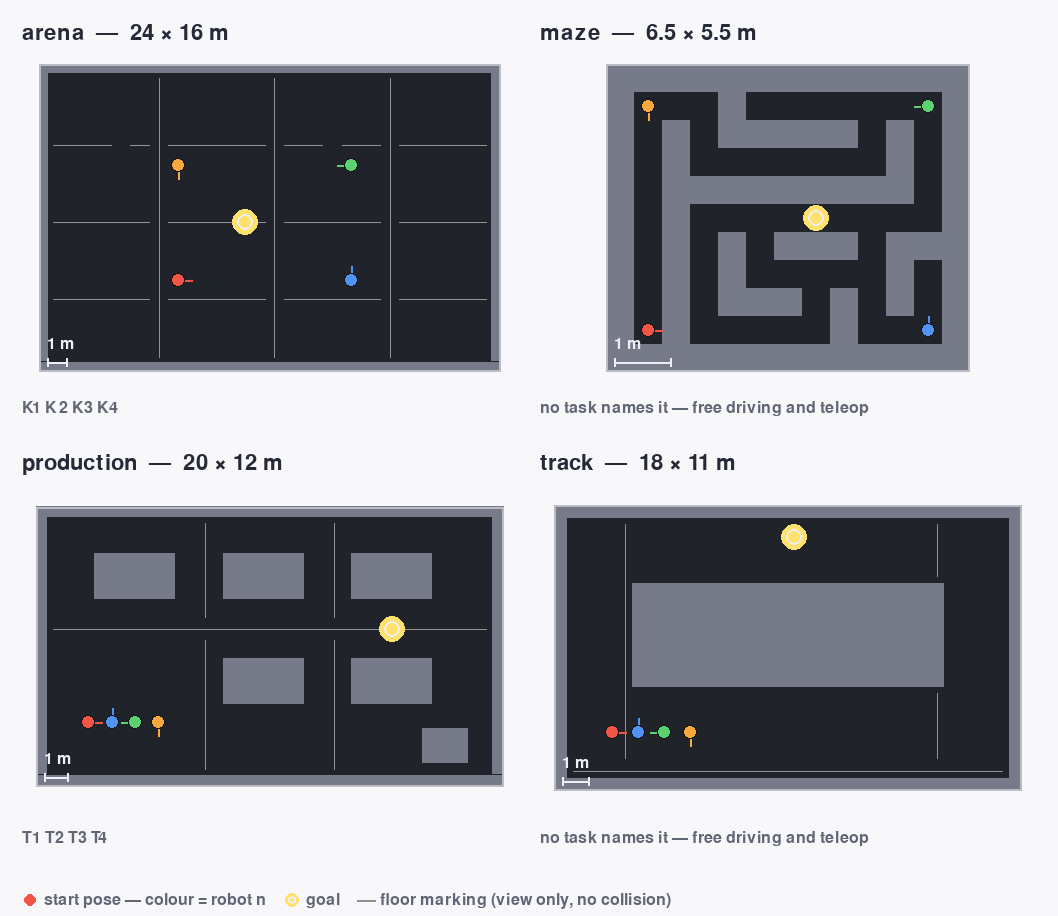
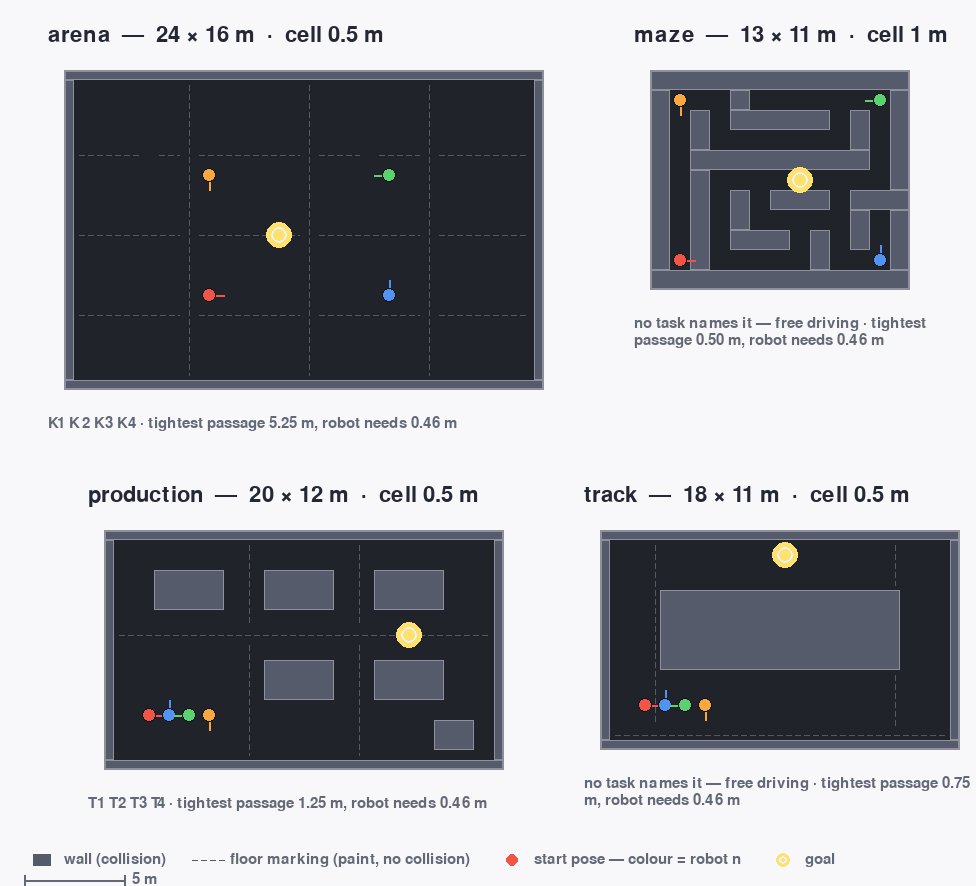
-- new stuff!

diff --git a/tools/worldpic.py b/tools/worldpic.py
@@ -1,19 +1,26 @@
 #!/usr/bin/env python3
 """One picture of every arena — for the README and for the tutor's screen.
 
-Draws what the GUI shows: floor, merged wall blocks, floor markings, the goal bullseye and
-every spawn with its heading. The line under each panel says which tasks name that world, read
-from `config/tasks.json` — the picture cannot quietly disagree with the task file.
+One metre has the same thickness everywhere in this figure: the panels are the worlds at a
+common scale, so `maze` (13 × 11 m, 1 m cells) and `arena` (24 × 16 m, 0.5 m cells) are
+comparable and a wall is as thick as it really is. Walls are solid blocks with a lit edge;
+floor markings (`-` and `|` in the grid) are drawn as dashed paint — they are decoration
+without collision and must not read as walls.
+
+Under each panel: which tasks name this world (`config/tasks.json`) and how wide the tightest
+passage on the widest start->goal path is (`tools/worldcheck.py`) — the number that says
+whether a robot fits through.
 
 Headless (SDL dummy), deterministic, stdlib + pygame only (CONTRACT section 1).
 
     python3 tools/worldpic.py                       # docs/img/worlds.png
-    python3 tools/worldpic.py --out /tmp/w.png --zoom 1.4
+    python3 tools/worldpic.py --out /tmp/w.png --massstab 28
 """
 import argparse
 import json
 import math
 import os
+import re
 import sys
 
 os.environ.setdefault("SDL_VIDEODRIVER", "dummy")       # no window needed to draw a picture
@@ -21,31 +28,31 @@ os.environ.setdefault("SDL_AUDIODRIVER", "dummy")
 os.environ.setdefault("PYGAME_HIDE_SUPPORT_PROMPT", "1")
 import pygame                                           # noqa: E402
 
-sys.path.insert(0, os.path.dirname(os.path.dirname(os.path.abspath(__file__))))
+ROOT = os.path.dirname(os.path.dirname(os.path.abspath(__file__)))
+sys.path.insert(0, ROOT)
+sys.path.insert(0, os.path.join(ROOT, "tools"))
 from mecanum_lab.types import PALETTE, cfg_get, load_config      # noqa: E402
 from mecanum_lab.worlds import load_world, list_worlds           # noqa: E402
+from worldcheck import pruefe                                    # noqa: E402
 
-ROOT = os.path.dirname(os.path.dirname(os.path.abspath(__file__)))
-BG, TITEL, TEXT = (248, 248, 251), (38, 42, 54), (96, 102, 116)
-PANEL, RAHMEN = 496, 336                          # panel box; the world box sits inside
-RAND, TITEL_H, UNTER, SPALTEN = 22, 28, 44, 2     # margins, title strip, caption strip
-LEGENDE = 34                                      # one legend line under the grid
-BODEN, WAND = (.13, .14, .17), (.34, .36, .42)    # same defaults as the pygame window
-ZIEL, HELL = (255, 226, 110), (236, 239, 246)
+MASSSTAB = 20.0                                    # pixels per metre, the same in every panel
+POLSTER, TITEL_H, UNTER, LEGENDE = 16, 30, 54, 46  # panel padding, title and caption strips
+RAND, SPALTEN = 24, 2                              # gaps between panels, columns of the grid
+BG, TITEL, TEXT = (248, 248, 251), (36, 40, 52), (98, 104, 118)
+BODEN, WAND = (.13, .14, .17), (.42, .45, .52)     # floor and wall, close to the GUI's gui_style
+ZIEL, HELL = (255, 226, 110), (238, 241, 247)
+FREI = 0.25                                        # same clearance the world checker defaults to
+ENG = re.compile(r"narrowest point ([\d.]+) m free \(needs ([\d.]+) m\)")
 
 
 def farben(cfg: dict) -> tuple:
-    """Floor, wall and border colours — gui_style, but walls a bit brighter.
-
-    The arena walls are 5 cm thin; at figure scale they would vanish in the floor, so the
-    picture lightens them. The window itself keeps the original values (render.py).
-    """
+    """Floor, wall, edge and paint colours — the same gui_style values the window reads."""
     stil = cfg_get(cfg or {}, "gui_style") or {}
     boden = tuple(int(255 * v) for v in stil.get("floor", BODEN))
     wand = tuple(int(255 * v) for v in stil.get("wall", WAND))
-    wand = tuple(int(0.78 * c + 0.22 * h) for c, h in zip(wand, HELL))
-    rand = tuple(min(255, (c + 255) // 2) for c in wand)         # a lit edge, as in the GUI
-    return boden, wand, rand
+    kant = tuple((2 * c + 255) // 3 for c in wand)             # lit edge of a solid body
+    malung = tuple((3 * c + 255) // 4 for c in boden)          # painted line, clearly not wall
+    return boden, kant, wand, malung
 
 
 def aufgaben_pro_welt() -> dict:
@@ -62,9 +69,78 @@ def aufgaben_pro_welt() -> dict:
     return {name: " ".join(kurz) for name, kurz in welten.items()}
 
 
-def _px(box, s, x, y):
-    """World metres -> pixels in the panel: origin bottom left, y growing upwards."""
-    return (box.x + x * s, box.bottom - y * s)
+def durchlass(name: str, cfg: dict) -> str:
+    """'tightest passage 1.25 m, robot needs 0.46 m' — straight from the world checker."""
+    try:
+        meldungen, _ = pruefe(name, cfg, FREI)
+    except Exception as exc:                                   # the picture is still drawn
+        return f"passage width unavailable ({type(exc).__name__})"
+    for zeile in meldungen:
+        treffer = ENG.search(zeile)
+        if treffer:
+            return f"tightest passage {treffer.group(1)} m, robot needs {treffer.group(2)} m"
+    return "no start->goal pair (free driving)"
+
+
+def textzeilen(schrift, text: str, breite: int):
+    """Wrap a caption to the panel width — a clipped sentence helps nobody."""
+    zeilen, aktuelle = [], ""
+    for wort in text.split():
+        kandidat = f"{aktuelle} {wort}".strip()
+        if aktuelle and schrift.size(kandidat)[0] > breite:
+            zeilen.append(aktuelle)
+            aktuelle = wort
+        else:
+            aktuelle = kandidat
+    if aktuelle:
+        zeilen.append(aktuelle)
+    return zeilen
+
+
+def _px(herkunft, s, x, y):
+    """World metres -> pixels: origin bottom left, y grows upwards."""
+    return (herkunft[0] + x * s, herkunft[1] - y * s)
+
+
+def _strich(sc, a, b, farbe, stich=5, luecke=4):
+    """Dashed line — the only honest way to draw paint on the floor."""
+    (x0, y0), (x1, y1) = a, b
+    laenge = math.hypot(x1 - x0, y1 - y0) or 1.0
+    dx, dy = (x1 - x0) / laenge, (y1 - y0) / laenge
+    zurueck, an = 0.0, True
+    while zurueck < laenge:
+        schritt = min(stich if an else luecke, laenge - zurueck)
+        if an:
+            pygame.draw.line(sc, farbe, (x0 + dx * zurueck, y0 + dy * zurueck),
+                             (x0 + dx * (zurueck + schritt), y0 + dy * (zurueck + schritt)), 1)
+        zurueck, an = zurueck + schritt, not an
+
+
+def feld(sc, welt, ecke, s, paare):
+    """Draw one world with its bottom left corner at `ecke` (pixels)."""
+    boden, kant, wand, malung = paare
+    breite, hoehe = int(welt.size[0] * s), int(welt.size[1] * s)
+    rahmen = pygame.Rect(ecke[0], int(ecke[1] - hoehe), breite, hoehe)
+    sc.fill(boden, rahmen)
+    for mauer in welt.walls or []:
+        linke = _px(ecke, s, mauer.x0, mauer.y1)
+        leib = pygame.Rect(linke, (max(2, int((mauer.x1 - mauer.x0) * s)),
+                                   max(2, int((mauer.y1 - mauer.y0) * s))))
+        pygame.draw.rect(sc, wand, leib)
+        pygame.draw.rect(sc, kant, leib, 1)              # reads as a body, not as a stroke
+    for x0, y0, x1, y1 in welt.markings or []:
+        _strich(sc, _px(ecke, s, x0, y0), _px(ecke, s, x1, y1), malung)
+    pygame.draw.rect(sc, kant, rahmen, 2)                # where the world ends
+    if welt.goal:
+        mitte = _px(ecke, s, welt.goal.x, welt.goal.y)
+        for ring, rad in enumerate((13, 8, 3)):
+            pygame.draw.circle(sc, HELL if ring == 1 else ZIEL, mitte, rad, 2 if ring else 0)
+    for nr, start in enumerate(welt.spawns or []):
+        mitte, farbe = _px(ecke, s, start.x, start.y), _palette(nr)
+        pygame.draw.circle(sc, farbe, mitte, 7)
+        pygame.draw.line(sc, farbe, mitte, (mitte[0] + 15 * math.cos(start.theta),
+                                           mitte[1] - 15 * math.sin(start.theta)), 2)
+        pygame.draw.circle(sc, (18, 20, 26), mitte, 7, 1)
 
 
 def _palette(nr: int) -> tuple:
@@ -72,84 +148,68 @@ def _palette(nr: int) -> tuple:
     return tuple(min(255, int(255 * w)) for w in PALETTE[nr % len(PALETTE)][1])
 
 
-def feld(sc, welt, x, y, boden, wand, rand):
-    """Draw one world into the panel box at (x, y); returns scale and the world box."""
-    w, h = welt.size
-    s = min((PANEL - 28) / w, (RAHMEN - 28) / h)
-    box = pygame.Rect(x + (PANEL - w * s) / 2, y + (RAHMEN - h * s) / 2, w * s, h * s)
-    pygame.draw.rect(sc, boden, box)
-    hell = tuple(min(255, (c + 255) // 2) for c in boden)
-    for x0, y0, x1, y1 in welt.markings or []:                 # floor markings, view only
-        pygame.draw.line(sc, hell, _px(box, s, x0, y0), _px(box, s, x1, y1), max(1, int(.06 * s)))
-    for mauer in welt.walls or []:
-        ecke = _px(box, s, mauer.x0, mauer.y1)
-        rechteck = pygame.Rect(ecke, (max(1, (mauer.x1 - mauer.x0) * s),
-                                      max(1, (mauer.y1 - mauer.y0) * s)))
-        pygame.draw.rect(sc, wand, rechteck)
-        if rechteck.width < 4 or rechteck.height < 4:      # thin walls need their outline
-            pygame.draw.rect(sc, rand, rechteck.inflate(2, 2), 1)
-    pygame.draw.rect(sc, rand, box, 2)                         # here the world ends
-    if welt.goal:
-        mitte = _px(box, s, welt.goal.x, welt.goal.y)
-        for ring, rad in enumerate((13, 8, 3)):                # bullseye, like the GUI
-            pygame.draw.circle(sc, HELL if ring == 1 else ZIEL, mitte, rad, 2 if ring else 0)
-    for nr, start in enumerate(welt.spawns or []):
-        mittel, farbe = _px(box, s, start.x, start.y), _palette(nr)
-        pygame.draw.circle(sc, farbe, mittel, 7)
-        pygame.draw.line(sc, farbe, mittel, (mittel[0] + 14 * math.cos(start.theta),
-                                            mittel[1] - 14 * math.sin(start.theta)), 2)
-        pygame.draw.circle(sc, (18, 20, 26), mittel, 7, 1)
-    return s, box
-
-
-def massstab(sc, box, s, schrift):
-    """One metre as a bar — the panels scale independently, so this keeps them honest."""
-    x, y = int(box.x + 8), int(box.bottom - 10)
-    pygame.draw.line(sc, HELL, (x, y), (x + s, y), 2)
-    for rand_px in (x, x + s):
-        pygame.draw.line(sc, HELL, (rand_px, y - 4), (rand_px, y + 4), 2)
-    sc.blit(schrift.render("1 m", True, HELL), (x, y - 26))     # above the bar, not on it
-
-
-def legende(sc, y, schrift, paare):
-    """Drawn, not typeset: the default pygame font has no reliable glyphs for symbols."""
-    x = RAND
-    for nr, (text, mal) in enumerate((
-            ("start pose — colour = robot n", lambda cx, cy: pygame.draw.circle(sc, _palette(0),
-                                                                                (cx, cy), 6)),
-            ("goal", lambda cx, cy: [pygame.draw.circle(sc, ZIEL, (cx, cy), 7),
-                                     pygame.draw.circle(sc, HELL, (cx, cy), 4, 2)]),
-            ("floor marking (view only, no collision)",
-             lambda cx, cy: pygame.draw.line(sc, tuple(min(255, (c + 255) // 2) for c in
-                                                      paare[0]), (cx - 9, cy), (cx + 9, cy), 2)))):
-        mal(x + 8, y)
+def legende(sc, y, schrift, paare, s):
+    """Drawn, not typeset: the default pygame font has no reliable symbol glyphs."""
+    boden, kant, wand, malung = paare
+    x, zeile = RAND, y
+    for text, male in (("wall (collision)",
+                        lambda cx, cy: pygame.draw.rect(sc, wand, (cx - 9, cy - 6, 18, 12))),
+                       ("floor marking (paint, no collision)",
+                        lambda cx, cy: _strich(sc, (cx - 16, cy), (cx + 16, cy), malung)),
+                       ("start pose — colour = robot n",
+                        lambda cx, cy: pygame.draw.circle(sc, _palette(0), (cx, cy), 6)),
+                       ("goal",
+                        lambda cx, cy: [pygame.draw.circle(sc, ZIEL, (cx, cy), 7),
+                                        pygame.draw.circle(sc, HELL, (cx, cy), 4, 2)])):
         bild = schrift.render(text, True, TEXT)
-        sc.blit(bild, (x + 22, y - 8))
-        x += 40 + bild.get_width()
+        if x + 64 + bild.get_width() > sc.get_width() - RAND:      # flow into the next row
+            x, zeile = RAND, zeile + 20
+        male(x + 18, zeile)
+        sc.blit(bild, (x + 40, zeile - 8))
+        x += 64 + bild.get_width()
+    laenge = int(5 * s)
+    if x + 20 + laenge + 40 > sc.get_width() - RAND:
+        x, zeile = RAND, zeile + 20
+    pygame.draw.line(sc, TEXT, (x, zeile), (x + laenge, zeile), 2)   # one scale, all panels
+    for rand_px in (x, x + laenge):
+        pygame.draw.line(sc, TEXT, (rand_px, zeile - 5), (rand_px, zeile + 5), 2)
+    sc.blit(schrift.render("5 m", True, TEXT), (x + laenge + 8, zeile - 8))
 
 
 def bilde(namen, pfad: str, zoom: float = 1.0) -> str:
-    """Render the given worlds into one PNG and return the path."""
-    welten = [(name, load_world(name)) for name in namen]
+    """Render the given worlds at one common scale into one PNG and return the path."""
+    cfg = load_config()
+    welten = [(name, load_world(name, cfg=cfg)) for name in namen]
     pygame.init()
-    gross, klein = pygame.font.Font(None, 32), pygame.font.Font(None, 24)
-    paare = farben(load_config())
+    gross, klein = pygame.font.Font(None, 32), pygame.font.Font(None, 23)
+    paare, s = farben(cfg), MASSSTAB
+    messen = [(int(w.size[0] * s) + 2 * POLSTER, int(w.size[1] * s) + 2 * POLSTER)
+              for _, w in welten]
     spalten = max(1, min(SPALTEN, len(welten)))
-    zeilen = -(-len(welten) // spalten)
-    sc = pygame.Surface((spalten * (PANEL + RAND) + RAND,
-                         zeilen * (RAHMEN + TITEL_H + UNTER + RAND) + RAND + LEGENDE))
+    reihen = -(-len(welten) // spalten)
+    spalt_b = [max([messen[i][0] for i in range(len(welten)) if i % spalten == c] or [0])
+               for c in range(spalten)]
+    reihen_h = [max([messen[i][1] for i in range(len(welten)) if i // spalten == r] or [0])
+                for r in range(reihen)]
+    streifen = TITEL_H + UNTER                       # title + caption around each panel
+    sc = pygame.Surface((sum(spalt_b) + (spalten + 1) * RAND,
+                         sum(reihen_h) + reihen * streifen + 2 * RAND + LEGENDE))
     sc.fill(BG)
-    wer = aufgaben_pro_welt()
+    aufgaben = aufgaben_pro_welt()
     for nr, (name, welt) in enumerate(welten):
-        x = RAND + (nr % spalten) * (PANEL + RAND)
-        y = RAND + (nr // spalten) * (RAHMEN + TITEL_H + UNTER + RAND)
-        sc.blit(gross.render(f"{name}  —  {welt.size[0]:g} × {welt.size[1]:g} m", True, TITEL),
-                (x, y))
-        s, box = feld(sc, welt, x, y + TITEL_H, *paare)
-        massstab(sc, box, s, klein)
-        sc.blit(klein.render(wer.get(name, "no task names it — free driving and teleop"),
-                            True, TEXT), (x, y + TITEL_H + RAHMEN + 14))
-    legende(sc, sc.get_height() - LEGENDE + 18, klein, paare)
+        spalte, reihe = nr % spalten, nr // spalten
+        einschub = (spalt_b[spalte] - messen[nr][0]) // 2          # centre in the wider column
+        x = RAND + sum(spalt_b[:spalte]) + (spalte + 1) * RAND + einschub
+        y = RAND + sum(reihen_h[:reihe]) + reihe * (streifen + RAND)
+        sc.blit(gross.render(f"{name}  —  {welt.size[0]:g} × {welt.size[1]:g} m  ·  "
+                             f"cell {welt.cell:g} m", True, TITEL), (x, y))
+        feld(sc, welt, (x + POLSTER, y + TITEL_H + messen[nr][1] - POLSTER), s, paare)
+        rand_text = (f"{aufgaben.get(name, 'no task names it — free driving')}  ·  "
+                     f"{durchlass(name, cfg)}")
+        for nr_z, zeile in enumerate(textzeilen(klein, rand_text, messen[nr][0])):
+            sc.blit(klein.render(zeile, True, TEXT),
+                    (x, y + TITEL_H + messen[nr][1] + 10 + 17 * nr_z))
+    legende(sc, sc.get_height() - LEGENDE + 20, klein, paare, s)
     if zoom != 1.0:
         sc = pygame.transform.smoothscale(sc, (int(sc.get_width() * zoom),
                                               int(sc.get_height() * zoom)))
@@ -165,7 +225,9 @@ def main(argv=None):
     ap.add_argument("--out", default=os.path.join(ROOT, "docs", "img", "worlds.png"))
     ap.add_argument("--welten", default=",".join(list_worlds()), help="comma-separated names")
     ap.add_argument("--zoom", type=float, default=1.0, help="enlarge the whole figure")
+    ap.add_argument("--massstab", type=float, default=MASSSTAB, help="pixels per metre")
     args = ap.parse_args(argv)
+    globals()["MASSSTAB"] = args.massstab
     bilde([w for w in args.welten.split(",") if w.strip()], args.out, args.zoom)
 
 

diff --git a/tools/loc.py b/tools/loc.py
@@ -53,7 +53,7 @@ BUDGET = {
     "student/kf_template.py": 200, "student/kf_solution.py": 310,
     "lab": 65, "launch/sim.launch.py": 60, "launch/student.launch.py": 50,
     "launch/lab.launch.py": 60, "launch/kf.launch.py": 160,
-    "tools/kfplot.py": 250, "tools/fastgrade.py": 140, "tools/worldpic.py": 180,
+    "tools/kfplot.py": 250, "tools/fastgrade.py": 140, "tools/worldpic.py": 240,
 }
 SIM_CORE = [k for k in BUDGET if k.startswith("mecanum_lab/")]
 CORE_TOTAL = 4300

diff --git a/README.md b/README.md
@@ -77,15 +77,21 @@ is deliberate: hide the dots, keep the data, and see which layer belongs to whic
 `--world` overrides it. Grading in the wrong arena gets you wall contacts
 instead of points.
 
-![The four arenas of the simulator: arena (24 × 16 m, mostly open, the four state-estimation
-tasks), maze (6.5 × 5.5 m maze), production (20 × 12 m hall with tables, the four kinematics
-and odometry tasks) and track (18 × 11 m ring). Each panel shows walls, floor markings, the
-goal as a bullseye and every spawn as a coloured dot with its heading.](docs/img/worlds.png)
+![The four arenas at one common scale: arena (24 × 16 m, open hall, the four state-estimation
+tasks), production (20 × 12 m hall with six tables, the four kinematics and odometry tasks),
+maze (13 × 11 m built on 1 m grid cells) and track (18 × 11 m ring around a central island).
+Solid blocks are walls that collide, dashed lines are painted floor markings without
+collision, dots are the start poses of robots 1–4 with their heading, the bullseye is the
+goal.](docs/img/worlds.png)
 
-*The four arenas, drawn by `python3 tools/worldpic.py`.* The picture is generated from
-`worlds/*.txt` and from the task titles in `config/tasks.json` — add an arena or move a task
-and the figure follows when you regenerate it (`tools/check.sh` does that as a check, so a
-stale image cannot survive a build).
+*The four arenas, drawn by `python3 tools/worldpic.py` — one metre has the same thickness in
+every panel, so the halls are comparable.* The numbers under the panels come from the same
+sources the checks use: task titles from `config/tasks.json`, and the width of the tightest
+passage on the widest start→goal path from `tools/worldcheck.py`. `arena` is deliberately open
+(5.25 m at its narrowest) because state estimation wants free space and a GPS outage in a
+corner; `maze` is deliberately tight (0.50 m free where the robot needs 0.46 m) because that
+is what makes odometry hard. Add an arena or move a task and the figure follows when you
+regenerate it — `tools/check.sh` draws it as a check, so a stale image cannot survive a build.
 
 ## Where configuration lives
 
